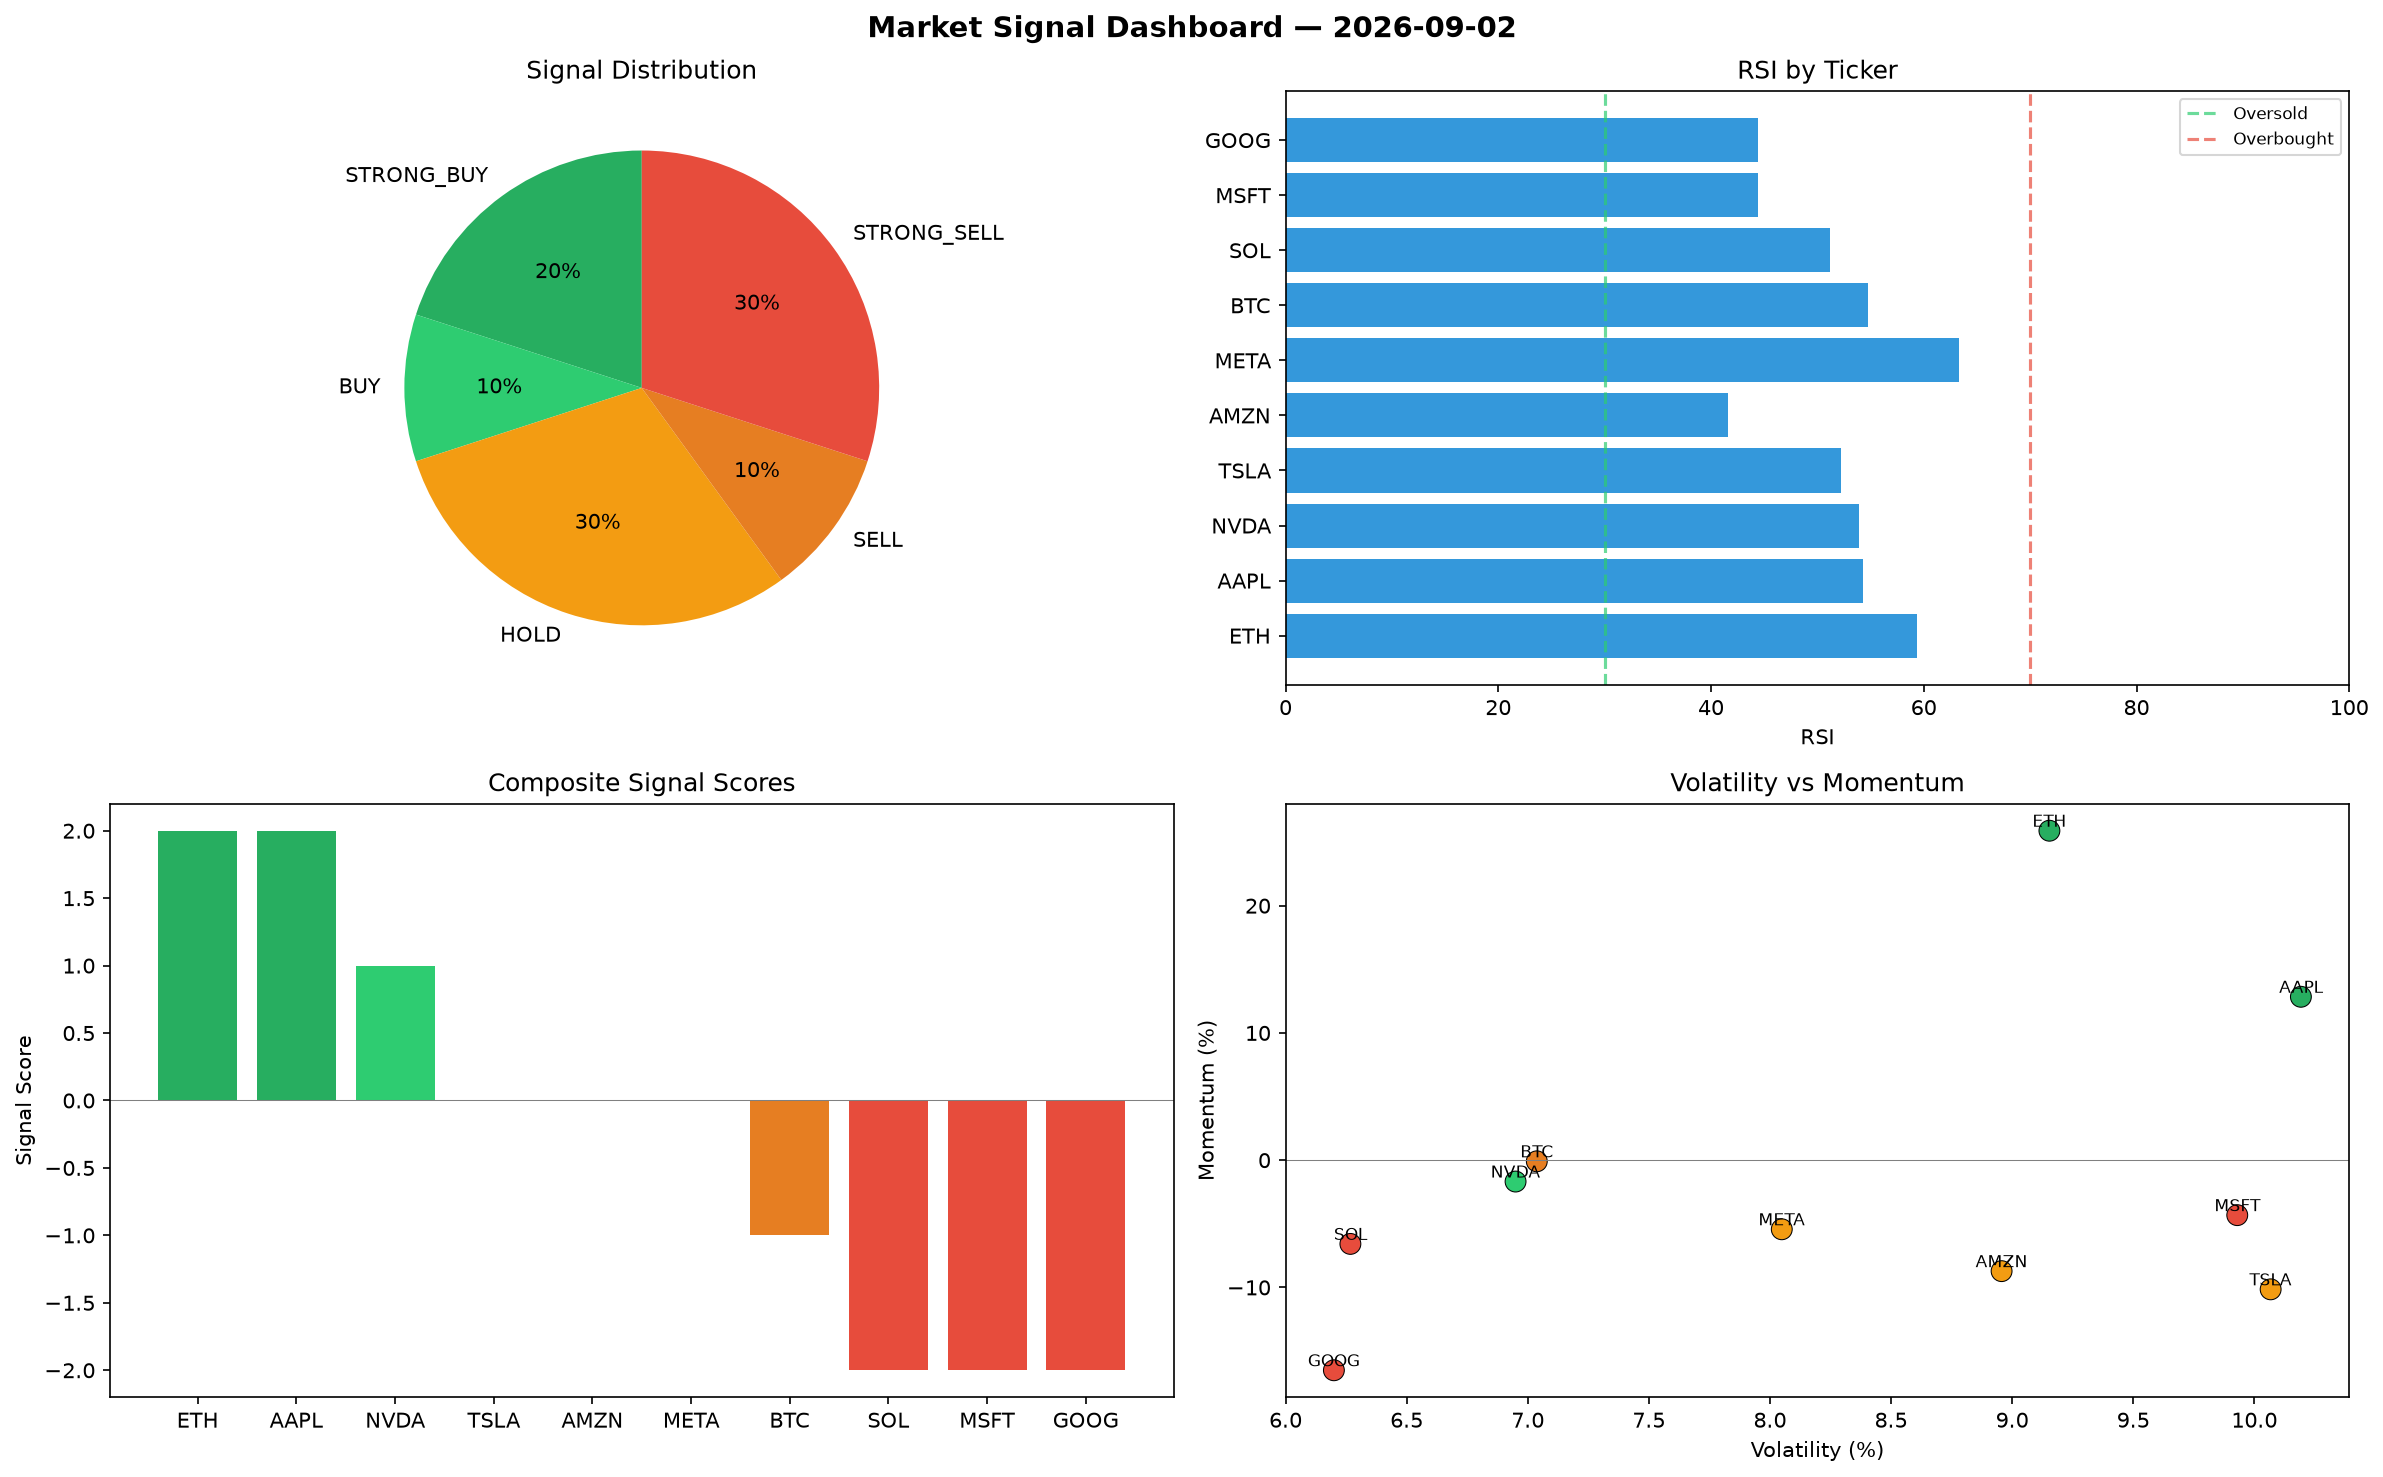
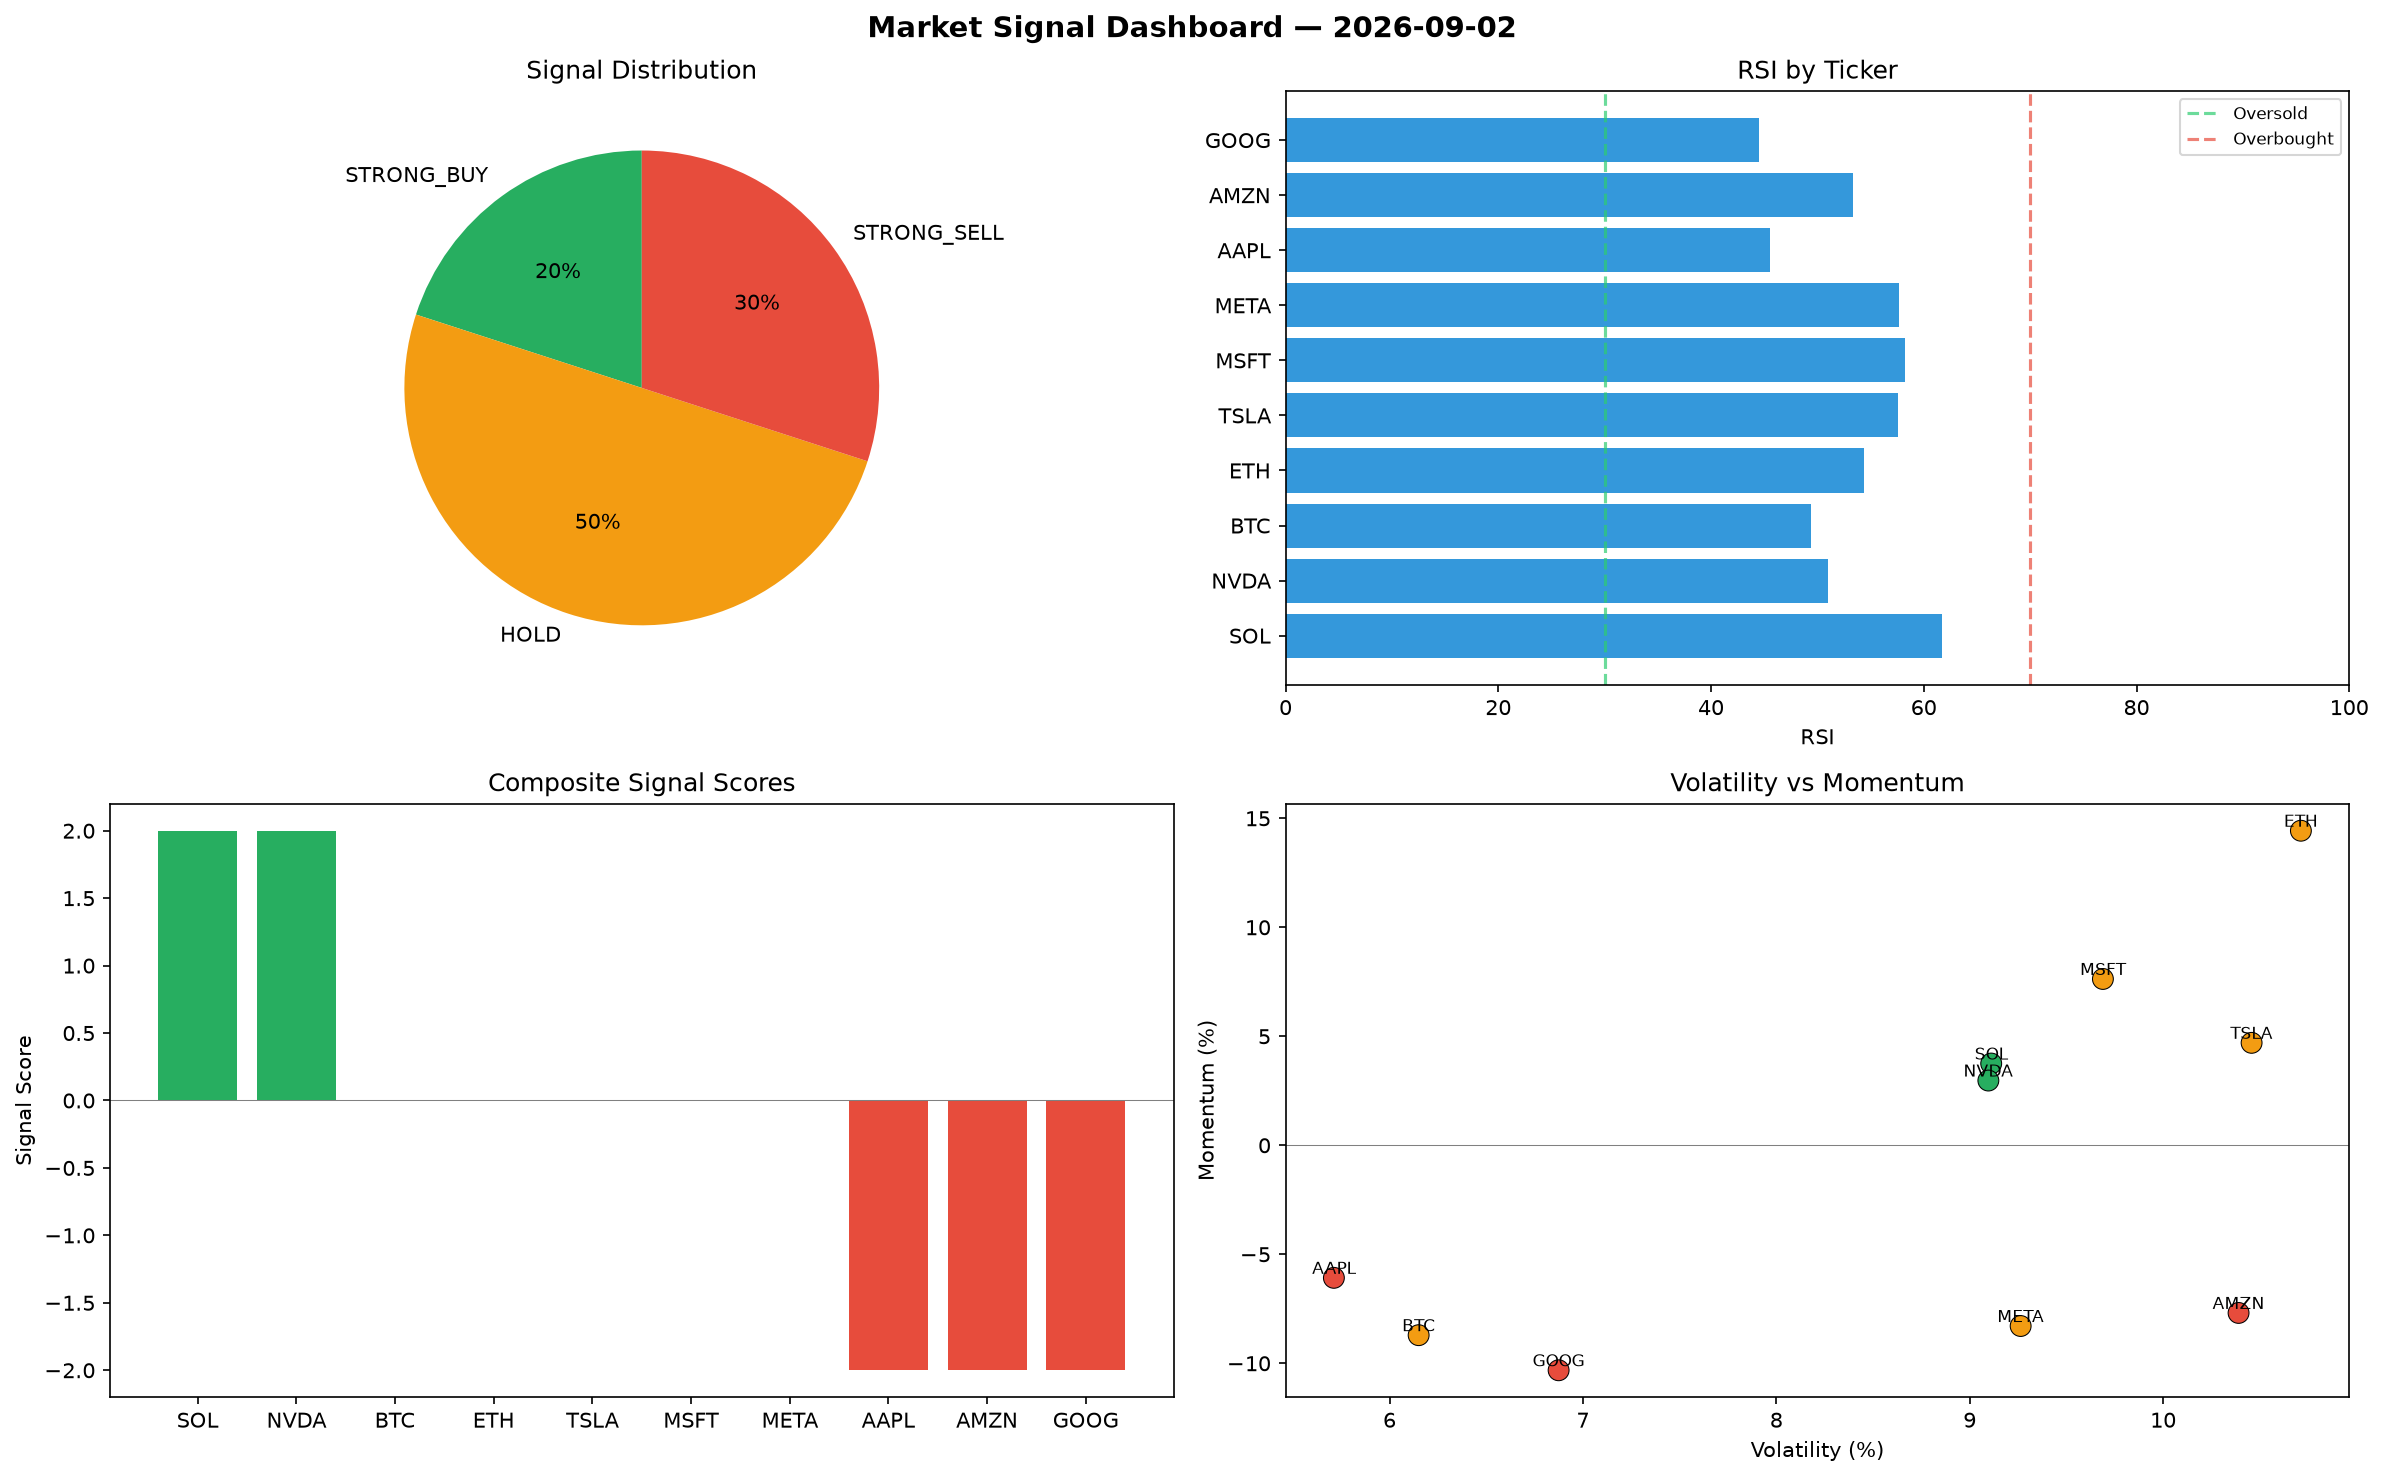
automated-bots: market signals 2026-09-02T12:51

diff --git a/logs/2026-09-02.md b/logs/2026-09-02.md
@@ -1,6 +1,6 @@
 # Market Signal Report — 2026-09-02
 
-**Run ID:** `d709d72a36` | **Buy:** 3 | **Sell:** 4 | **Hold:** 3
+**Run ID:** `a2b7a6268b` | **Buy:** 2 | **Sell:** 3 | **Hold:** 5
 
 ![Dashboard](2026-09-02_dashboard.png)
 
@@ -8,28 +8,28 @@
 
 | Ticker | Price | Signal | Score | RSI | Momentum | Confidence |
 |--------|-------|--------|-------|-----|----------|------------|
-| ETH | $531.69 | **STRONG_BUY** | 2 | 59.36 | 0.2589 | 0.5 |
-| AAPL | $1898.89 | **STRONG_BUY** | 2 | 54.31 | 0.1284 | 0.5 |
-| NVDA | $4216.46 | **BUY** | 1 | 53.92 | -0.0168 | 0.25 |
-| TSLA | $3634.86 | **HOLD** | 0 | 52.26 | -0.1015 | 0.0 |
-| AMZN | $3885.33 | **HOLD** | 0 | 41.55 | -0.0872 | 0.0 |
-| META | $1828.54 | **HOLD** | 0 | 63.29 | -0.0543 | 0.0 |
-| BTC | $2970.69 | **SELL** | -1 | 54.74 | -0.0009 | 0.25 |
-| SOL | $1567.19 | **STRONG_SELL** | -2 | 51.17 | -0.0658 | 0.5 |
-| MSFT | $1307.48 | **STRONG_SELL** | -2 | 44.45 | -0.0432 | 0.5 |
-| GOOG | $4305.57 | **STRONG_SELL** | -2 | 44.42 | -0.1651 | 0.5 |
+| SOL | $3344.91 | **STRONG_BUY** | 2 | 61.76 | 0.0375 | 0.5 |
+| NVDA | $1023.93 | **STRONG_BUY** | 2 | 51.04 | 0.0297 | 0.5 |
+| BTC | $4447.23 | **HOLD** | 0 | 49.44 | -0.0871 | 0.0 |
+| ETH | $4780.52 | **HOLD** | 0 | 54.35 | 0.1443 | 0.0 |
+| TSLA | $4321.87 | **HOLD** | 0 | 57.57 | 0.047 | 0.0 |
+| MSFT | $599.77 | **HOLD** | 0 | 58.22 | 0.0763 | 0.0 |
+| META | $3941.1 | **HOLD** | 0 | 57.71 | -0.0829 | 0.0 |
+| AAPL | $1841.23 | **STRONG_SELL** | -2 | 45.59 | -0.0608 | 0.5 |
+| AMZN | $4612.38 | **STRONG_SELL** | -2 | 53.36 | -0.0769 | 0.5 |
+| GOOG | $2898.76 | **STRONG_SELL** | -2 | 44.49 | -0.1032 | 0.5 |
 
 ## Delta vs Yesterday
 
 | Ticker | Today | Yesterday | Price Change | Signal Changed |
 |--------|-------|-----------|-------------|----------------|
-| ETH | STRONG_BUY | STRONG_SELL | 📉 -64.71% | ⚠ YES |
-| AAPL | STRONG_BUY | HOLD | 📉 -39.11% | ⚠ YES |
-| NVDA | BUY | BUY | 📈 93.06% | — |
-| TSLA | HOLD | STRONG_BUY | 📈 406.95% | ⚠ YES |
-| AMZN | HOLD | BUY | 📈 5.97% | ⚠ YES |
-| META | HOLD | STRONG_BUY | 📈 41.38% | ⚠ YES |
-| BTC | SELL | SELL | 📉 -22.4% | — |
-| SOL | STRONG_SELL | STRONG_SELL | 📉 -46.23% | — |
-| MSFT | STRONG_SELL | HOLD | 📉 -66.42% | ⚠ YES |
-| GOOG | STRONG_SELL | SELL | 📈 1830.75% | ⚠ YES |
+| SOL | STRONG_BUY | STRONG_SELL | 📈 14.75% | ⚠ YES |
+| NVDA | STRONG_BUY | BUY | 📉 -53.12% | ⚠ YES |
+| BTC | HOLD | SELL | 📈 16.16% | ⚠ YES |
+| ETH | HOLD | STRONG_SELL | 📈 217.27% | ⚠ YES |
+| TSLA | HOLD | STRONG_BUY | 📈 502.77% | ⚠ YES |
+| MSFT | HOLD | HOLD | 📉 -84.6% | — |
+| META | HOLD | STRONG_BUY | 📈 204.72% | ⚠ YES |
+| AAPL | STRONG_SELL | HOLD | 📉 -40.96% | ⚠ YES |
+| AMZN | STRONG_SELL | BUY | 📈 25.8% | ⚠ YES |
+| GOOG | STRONG_SELL | SELL | 📈 1199.89% | ⚠ YES |
